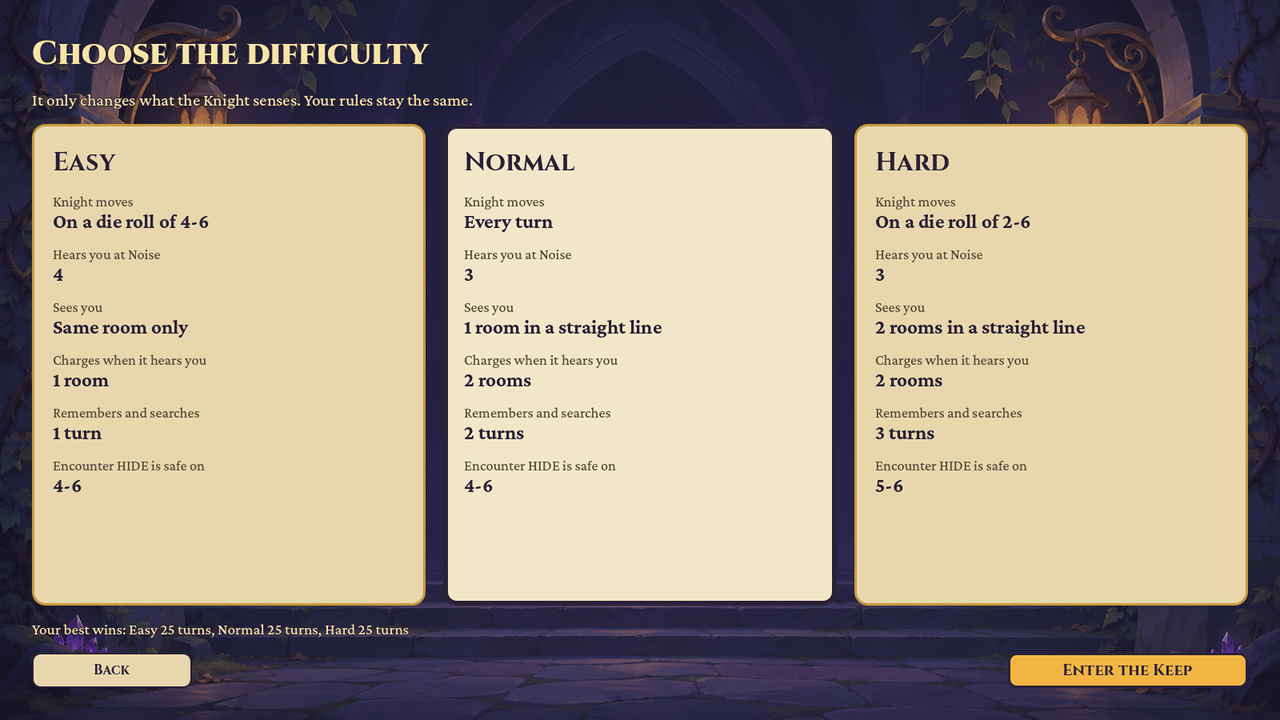
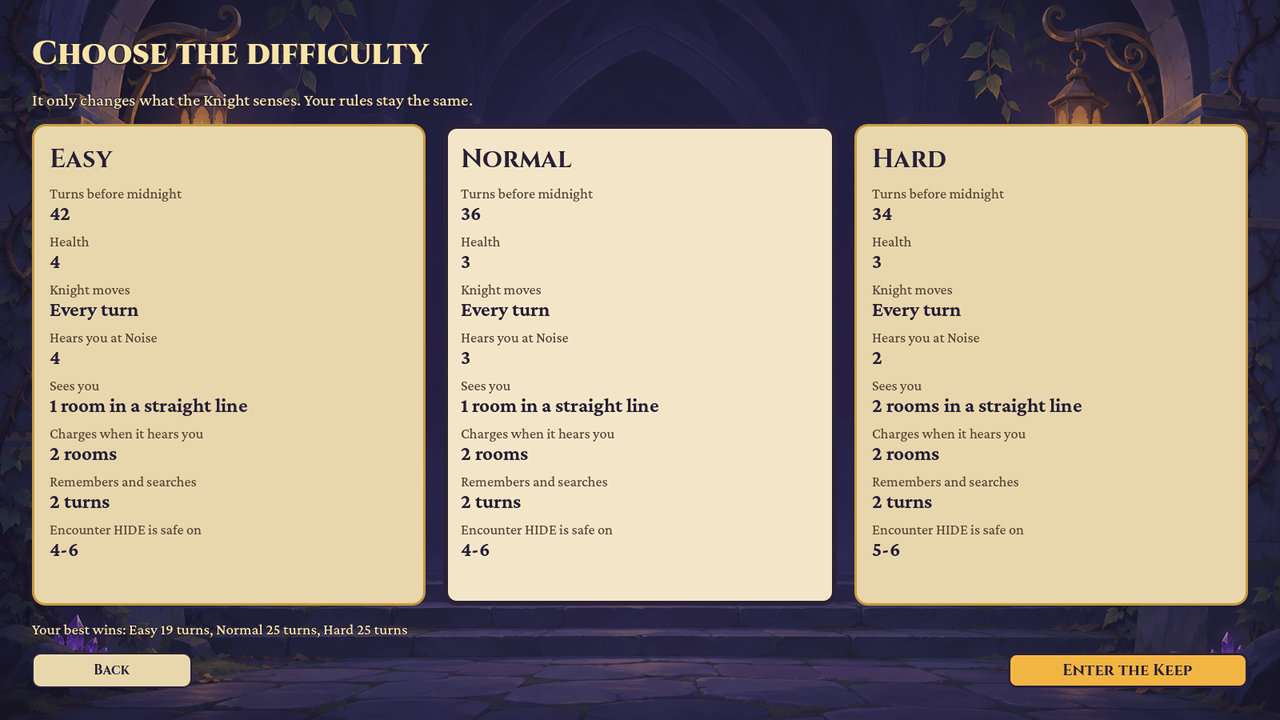
Difficulty tuning: Easy starts with 4 Health; Hard has 34 turns and the Knight sees 2 rooms
Targets were Easy 70-80% and Hard 30-40% wins. Bot test, 500 games per hero per level, same seeds:
  Ranger    Easy 75.2  Normal 52.4  Hard 28.8
  Alchemist Easy 76.2  Normal 58.4  Hard 37.2
  Thief     Easy 78.2  Normal 58.2  Hard 36.6

- New per-difficulty "health" (start and maximum) with game.max_health(); Chapel, Potion,
  bot and the UI hearts/labels use it. The heart row is built for the largest maximum and hides
  extras on 3-Health levels
- Difficulty screen gets a Health row (tighter row spacing so 8 rows fit)
- Rules page, README and Design-Doc tables updated
- rules_test: new expectations, plus "the Chapel heals up to 4 on Easy" and "no heal at full Health"

Claude-Session: https://claude.ai/code/session_018hEJ1Ndwh3qW2uU4TttG4E

diff --git a/Design-Doc.md b/Design-Doc.md
@@ -83,17 +83,19 @@ The Knight now guards restored Seals more closely. Each restored Seal is added t
 
 ## Difficulty levels
 
-Every level uses Normal's Knight: it moves every turn with no die, remembers a noise for 2 turns, charges 2 rooms when it hears you, searches for 2 turns and sees 1 room down a straight corridor. A bot test showed the die walk made Hard no harder than Normal (56% vs 52% Ranger wins), so the walk is now the same everywhere and the levels differ only in these settings:
+Every level uses Normal's Knight: it moves every turn with no die, remembers a noise for 2 turns, charges 2 rooms when it hears you, and searches for 2 turns. A bot test showed the die walk made Hard no harder than Normal (56% vs 52% Ranger wins), so the walk is now the same everywhere and the levels differ only in these settings:
 
 | Setting | Easy | Normal | Hard |
 | --- | --- | --- | --- |
-| Turns before midnight | 42 | 36 | 36 |
+| Turns before midnight | 42 | 36 | 34 |
 | Starts hunting at Noise | 4 | 3 | 2 |
+| Sees you (rooms down a straight corridor) | 1 | 1 | 2 |
 | Encounter HIDE is safe on | 4–6 | 4–6 | 5–6 (it checks hiding spots) |
-| Health (start / max) | 3 | 3 | 3 |
+| Health (start / max) | 4 | 3 | 3 |
 | Shards per Seal | 2 | 2 | 2 |
 | Damage when caught | 1 | 1 | 1 |
-| Target player win rate | 65–75% | 45–55% | 25–35% |
+| Target player win rate | 70–80% | 45–55% | 30–40% |
+| Bot result (500 games each: Ranger / Alchemist / Thief) | 75% / 76% / 78% | 52% / 58% / 58% | 29% / 37% / 37% |
 
 The win-rate targets are starting points. Step 4's bot simulation checks them and we tune the numbers until each level lands in its range.
 

diff --git a/README.md b/README.md
@@ -42,7 +42,7 @@ The exe isn't code-signed, so Windows SmartScreen may show "Windows protected yo
 
 ## How to play
 
-**Goal.** Restore all three Seals (2 Rune Shards each) before your Health hits 0 or midnight (Turn 36 ends; Turn 42 on Easy).
+**Goal.** Restore all three Seals (2 Rune Shards each) before your Health hits 0 or midnight (Turn 36 ends; Turn 42 on Easy, 34 on Hard).
 
 **Your turn.** You hold 2 Action Cards. Play 1; the other is discarded. Then the Knight moves.
 
@@ -121,15 +121,16 @@ wins at once, with no signal. Every decision
 is logged with its reason, both in the debug overlay (F1, debug builds) and in `%APPDATA%\Godot\app_userdata\Curse of Blackthorn Keep\knight_log.txt`.
 
 All three difficulties use the same Knight (moves every turn, 2-turn memory, charges 2 rooms, searches 2 turns,
-sees 1 room in a straight line). Only these change:
+searches 2 turns). Only these change:
 
-| Difficulty | Turns before midnight | Hears you at Noise | Encounter HIDE safe on |
-|---|---|---|---|
-| Easy | 42 | 4 | 4–6 |
-| Normal | 36 | 3 | 4–6 |
-| Hard | 36 | 2 | 5–6 |
+| Difficulty | Turns before midnight | Health | Hears you at Noise | Sees you (rooms in a straight line) | Encounter HIDE safe on |
+|---|---|---|---|---|---|
+| Easy | 42 | 4 | 4 | 1 | 4–6 |
+| Normal | 36 | 3 | 3 | 1 | 4–6 |
+| Hard | 34 | 3 | 2 | 2 | 5–6 |
 
-Health 3, 2 Shards per Seal and 1 damage when caught are the same on every level.
+2 Shards per Seal and 1 damage when caught are the same on every level. Bot test (500 games each, Ranger / Alchemist / Thief):
+Easy 75 / 76 / 78% wins, Normal 52 / 58 / 58%, Hard 29 / 37 / 37%.
 
 ## Balance simulation
 
